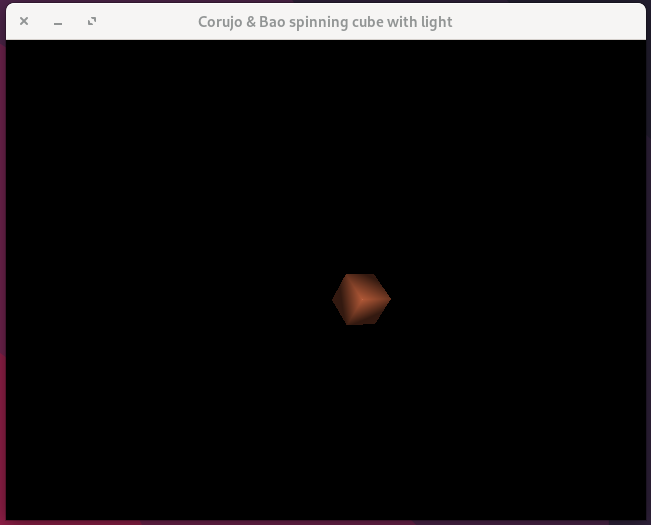
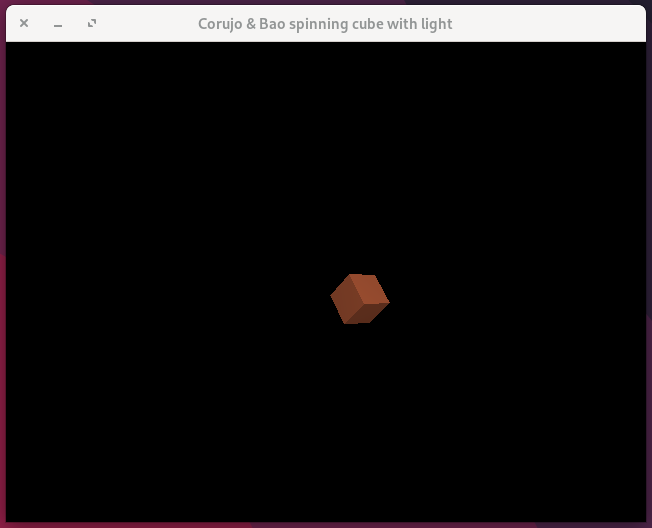
Fixed Phong illumination

diff --git a/opengl/src/spinningcube_withlight.cpp b/opengl/src/spinningcube_withlight.cpp
@@ -30,18 +30,16 @@ GLint model_location, view_location, proj_location, normal_to_w_location;
 GLint camera_position_location;
 GLint material_ambient_location, material_diffuse_location, material_specular_location, material_shininess_location;
 GLint light_position_location, light_ambient_location, light_diffuse_location, light_specular_location;
-GLint light_position_location_2, light_ambient_location_2, light_diffuse_location_2, light_specular_location_2;
 
 // Shader names
 const char *vertexFileName = "src/spinningcube_withlight_vs.glsl";
 const char *fragmentFileName = "src/spinningcube_withlight_fs.glsl";
 
 // Camera
-glm::vec3 camera_pos(0.0f, 0.0f, 1.0f);
+glm::vec3 camera_pos(0.0f, 0.0f, 3.0f);
 
 // Lighting
-glm::vec3 light_pos(1.5f, 0.8f, 2.0f);
-glm::vec3 light_pos_2(-1.5f, 0.8f, 2.0f);
+glm::vec3 light_pos(1.2f, 1.0f, 2.0f);
 glm::vec3 light_ambient(0.2f, 0.2f, 0.2f);
 glm::vec3 light_diffuse(0.5f, 0.5f, 0.5f);
 glm::vec3 light_specular(1.0f, 1.0f, 1.0f);
@@ -166,70 +164,53 @@ int main()
   //       6        5
   //
   const GLfloat vertex_positions[] = {
-      -0.25f, -0.25f, -0.25f, // 1
-      -0.25f, 0.25f, -0.25f,  // 0
-      0.25f, -0.25f, -0.25f,  // 2
+      -0.25f, -0.25f, -0.25f, 0.0f, 0.0f, -1.0f, // 1
+      -0.25f, 0.25f, -0.25f, 0.0f, 0.0f, -1.0f,  // 0
+      0.25f, -0.25f, -0.25f, 0.0f, 0.0f, -1.0f,  // 2
 
-      0.25f, 0.25f, -0.25f,  // 3
-      0.25f, -0.25f, -0.25f, // 2
-      -0.25f, 0.25f, -0.25f, // 0
+      0.25f, 0.25f, -0.25f, 0.0f, 0.0f, -1.0f,  // 3
+      0.25f, -0.25f, -0.25f, 0.0f, 0.0f, -1.0f, // 2
+      -0.25f, 0.25f, -0.25f, 0.0f, 0.0f, -1.0f, // 0
 
-      0.25f, -0.25f, -0.25f, // 2
-      0.25f, 0.25f, -0.25f,  // 3
-      0.25f, -0.25f, 0.25f,  // 5
+      0.25f, -0.25f, -0.25f, 1.0f, 0.0f, 0.0f, // 2
+      0.25f, 0.25f, -0.25f, 1.0f, 0.0f, 0.0f,  // 3
+      0.25f, -0.25f, 0.25f, 1.0f, 0.0f, 0.0f,  // 5
 
-      0.25f, 0.25f, 0.25f,  // 4
-      0.25f, -0.25f, 0.25f, // 5
-      0.25f, 0.25f, -0.25f, // 3
+      0.25f, 0.25f, 0.25f, 1.0f, 0.0f, 0.0f,  // 4
+      0.25f, -0.25f, 0.25f, 1.0f, 0.0f, 0.0f, // 5
+      0.25f, 0.25f, -0.25f, 1.0f, 0.0f, 0.0f, // 3
 
-      0.25f, -0.25f, 0.25f,  // 5
-      0.25f, 0.25f, 0.25f,   // 4
-      -0.25f, -0.25f, 0.25f, // 6
+      0.25f, -0.25f, 0.25f, 0.0f, 0.0f, 1.0f,  // 5
+      0.25f, 0.25f, 0.25f, 0.0f, 0.0f, 1.0f,   // 4
+      -0.25f, -0.25f, 0.25f, 0.0f, 0.0f, 1.0f, // 6
 
-      -0.25f, 0.25f, 0.25f,  // 7
-      -0.25f, -0.25f, 0.25f, // 6
-      0.25f, 0.25f, 0.25f,   // 4
+      -0.25f, 0.25f, 0.25f, 0.0f, 0.0f, 1.0f,  // 7
+      -0.25f, -0.25f, 0.25f, 0.0f, 0.0f, 1.0f, // 6
+      0.25f, 0.25f, 0.25f, 0.0f, 0.0f, 1.0f,   // 4
 
-      -0.25f, -0.25f, 0.25f,  // 6
-      -0.25f, 0.25f, 0.25f,   // 7
-      -0.25f, -0.25f, -0.25f, // 1
+      -0.25f, -0.25f, 0.25f, -1.0f, 0.0f, 0.0f,  // 6
+      -0.25f, 0.25f, 0.25f, -1.0f, 0.0f, 0.0f,   // 7
+      -0.25f, -0.25f, -0.25f, -1.0f, 0.0f, 0.0f, // 1
 
-      -0.25f, 0.25f, -0.25f,  // 0
-      -0.25f, -0.25f, -0.25f, // 1
-      -0.25f, 0.25f, 0.25f,   // 7
+      -0.25f, 0.25f, -0.25f, -1.0f, 0.0f, 0.0f,  // 0
+      -0.25f, -0.25f, -0.25f, -1.0f, 0.0f, 0.0f, // 1
+      -0.25f, 0.25f, 0.25f, -1.0f, 0.0f, 0.0f,   // 7
 
-      0.25f, -0.25f, -0.25f,  // 2
-      0.25f, -0.25f, 0.25f,   // 5
-      -0.25f, -0.25f, -0.25f, // 1
+      0.25f, -0.25f, -0.25f, 0.0f, -1.0f, 0.0f,  // 2
+      0.25f, -0.25f, 0.25f, 0.0f, -1.0f, 0.0f,   // 5
+      -0.25f, -0.25f, -0.25f, 0.0f, -1.0f, 0.0f, // 1
 
-      -0.25f, -0.25f, 0.25f,  // 6
-      -0.25f, -0.25f, -0.25f, // 1
-      0.25f, -0.25f, 0.25f,   // 5
+      -0.25f, -0.25f, 0.25f, 0.0f, -1.0f, 0.0f,  // 6
+      -0.25f, -0.25f, -0.25f, 0.0f, -1.0f, 0.0f, // 1
+      0.25f, -0.25f, 0.25f, 0.0f, -1.0f, 0.0f,   // 5
 
-      0.25f, 0.25f, 0.25f,  // 4
-      0.25f, 0.25f, -0.25f, // 3
-      -0.25f, 0.25f, 0.25f, // 7
+      0.25f, 0.25f, 0.25f, 0.0f, 1.0f, 0.0f,  // 4
+      0.25f, 0.25f, -0.25f, 0.0f, 1.0f, 0.0f, // 3
+      -0.25f, 0.25f, 0.25f, 0.0f, 1.0f, 0.0f, // 7
 
-      -0.25f, 0.25f, -0.25f, // 0
-      -0.25f, 0.25f, 0.25f,  // 7
-      0.25f, 0.25f, -0.25f,   // 3
-
-      // Pyramid
-      0.85f,  0.65f,  0.25f, // Top vertex
-      0.45f, -0.15f,  0.65f, // Bottom-left vertex
-      1.25f, -0.15f,  0.65f, // Bottom-right vertex
-
-      0.85f,  0.65f,  0.25f, // Top vertex
-      1.25f, -0.15f,  0.65f, // Bottom-right vertex
-      0.85f, -0.15f, -0.15f, // Bottom-front vertex
-
-      0.85f,  0.65f,  0.25f, // Top vertex
-      0.85f, -0.15f, -0.15f, // Bottom-front vertex
-      0.45f, -0.15f,  0.65f, // Bottom-left vertex
-
-      0.85f, -0.15f, -0.15f, // Bottom-front vertex
-      1.25f, -0.15f,  0.65f, // Bottom-right vertex
-      0.45f, -0.15f,  0.65f  // Bottom-left vertex
+      -0.25f, 0.25f, -0.25f, 0.0f, 1.0f, 0.0f, // 0
+      -0.25f, 0.25f, 0.25f, 0.0f, 1.0f, 0.0f,  // 7
+      0.25f, 0.25f, -0.25f, 0.0f, 1.0f, 0.0f,  // 3
   };
 
   // Vertex Buffer Object (for vertex coordinates)
@@ -240,11 +221,11 @@ int main()
 
   // Vertex attributes
   // 0: vertex position (x, y, z)
-  glVertexAttribPointer(0, 3, GL_FLOAT, GL_FALSE, 0, NULL);
+  glVertexAttribPointer(0, 3, GL_FLOAT, GL_FALSE,  6 * sizeof(float), NULL);
   glEnableVertexAttribArray(0);
 
   // 1: vertex normals (x, y, z)
-  glVertexAttribPointer(1, 3, GL_FLOAT, GL_FALSE, 0, NULL);
+  glVertexAttribPointer(1, 3, GL_FLOAT, GL_FALSE,  6 * sizeof(float), (void *)(3 * sizeof(float)));
   glEnableVertexAttribArray(1);
 
   // Unbind vbo (it was conveniently registered by VertexAttribPointer)
@@ -273,11 +254,6 @@ int main()
   light_diffuse_location = glGetUniformLocation(shader_program, "light.diffuse");
   light_specular_location = glGetUniformLocation(shader_program, "light.specular");
   light_position_location = glGetUniformLocation(shader_program, "light.position");
-
-  light_ambient_location_2 = glGetUniformLocation(shader_program, "light.ambient");
-  light_diffuse_location_2 = glGetUniformLocation(shader_program, "light.diffuse");
-  light_specular_location_2 = glGetUniformLocation(shader_program, "light.specular");
-  light_position_location_2 = glGetUniformLocation(shader_program, "light.position");
 
   material_ambient_location = glGetUniformLocation(shader_program, "material.ambient");
   material_diffuse_location = glGetUniformLocation(shader_program, "material.diffuse");
@@ -355,21 +331,12 @@ void render(double currentTime)
   glUniform3fv(light_specular_location, 1, glm::value_ptr(light_specular));
   glUniform3fv(light_position_location, 1, glm::value_ptr(light_pos));
 
-  glUniform3fv(light_ambient_location_2, 1, glm::value_ptr(light_ambient));
-  glUniform3fv(light_diffuse_location_2, 1, glm::value_ptr(light_diffuse));
-  glUniform3fv(light_specular_location_2, 1, glm::value_ptr(light_specular));
-  glUniform3fv(light_position_location_2, 1, glm::value_ptr(light_pos_2));
-
   glUniform3fv(material_ambient_location, 1, glm::value_ptr(material_ambient));
   glUniform3fv(material_diffuse_location, 1, glm::value_ptr(material_diffuse));
   glUniform3fv(material_specular_location, 1, glm::value_ptr(material_specular));
   glUniform1f(material_shininess_location, material_shininess);
 
-  // Render the cube
   glDrawArrays(GL_TRIANGLES, 0, 36);
-
-  // Render the pyramid
-  glDrawArrays(GL_TRIANGLES, 36, 12);
 }
 
 void processInput(GLFWwindow *window)
